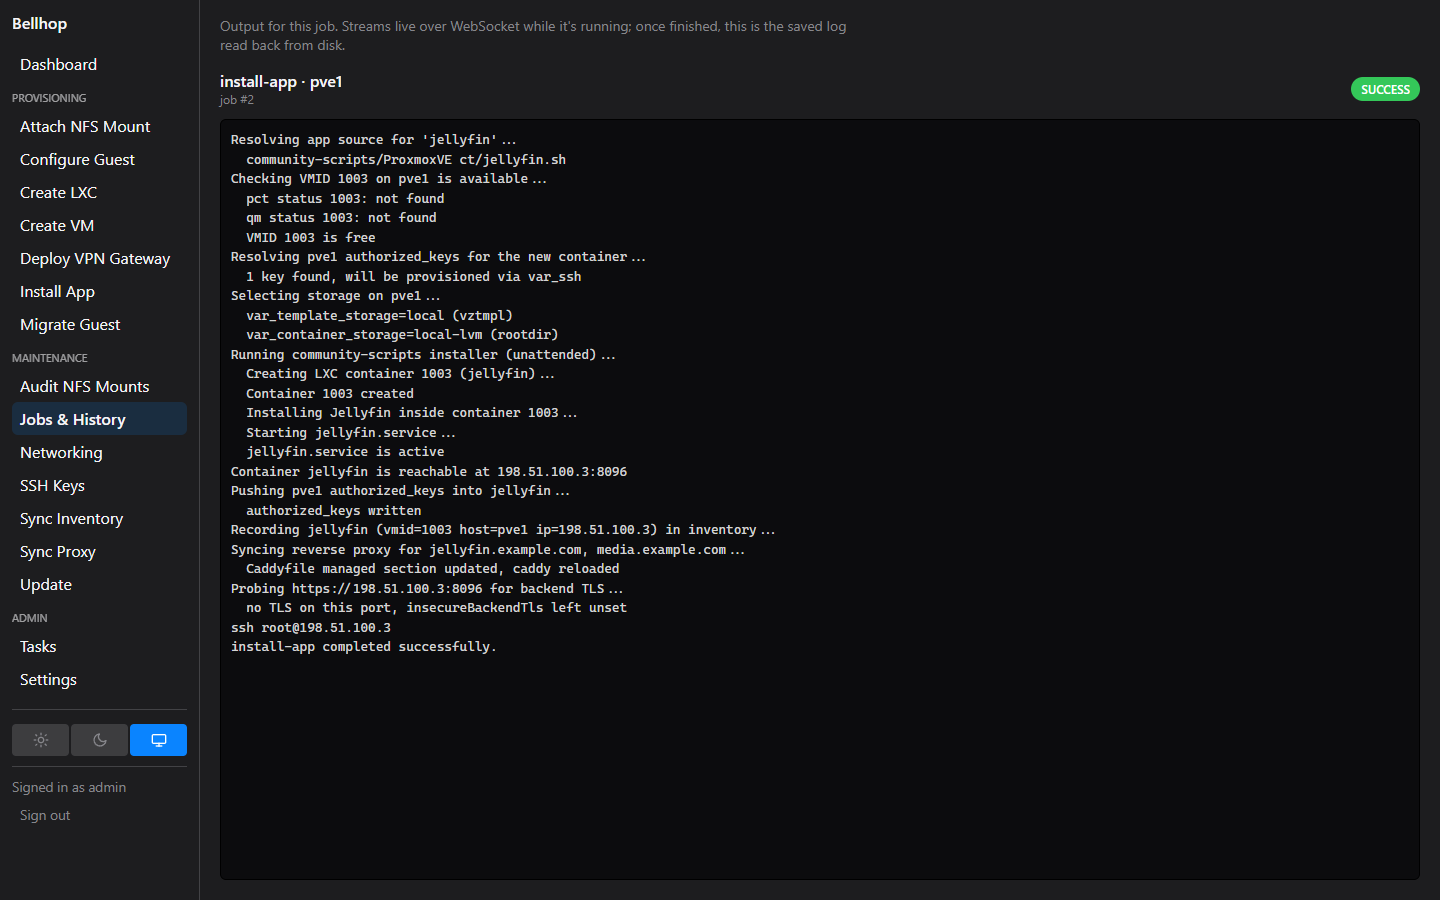
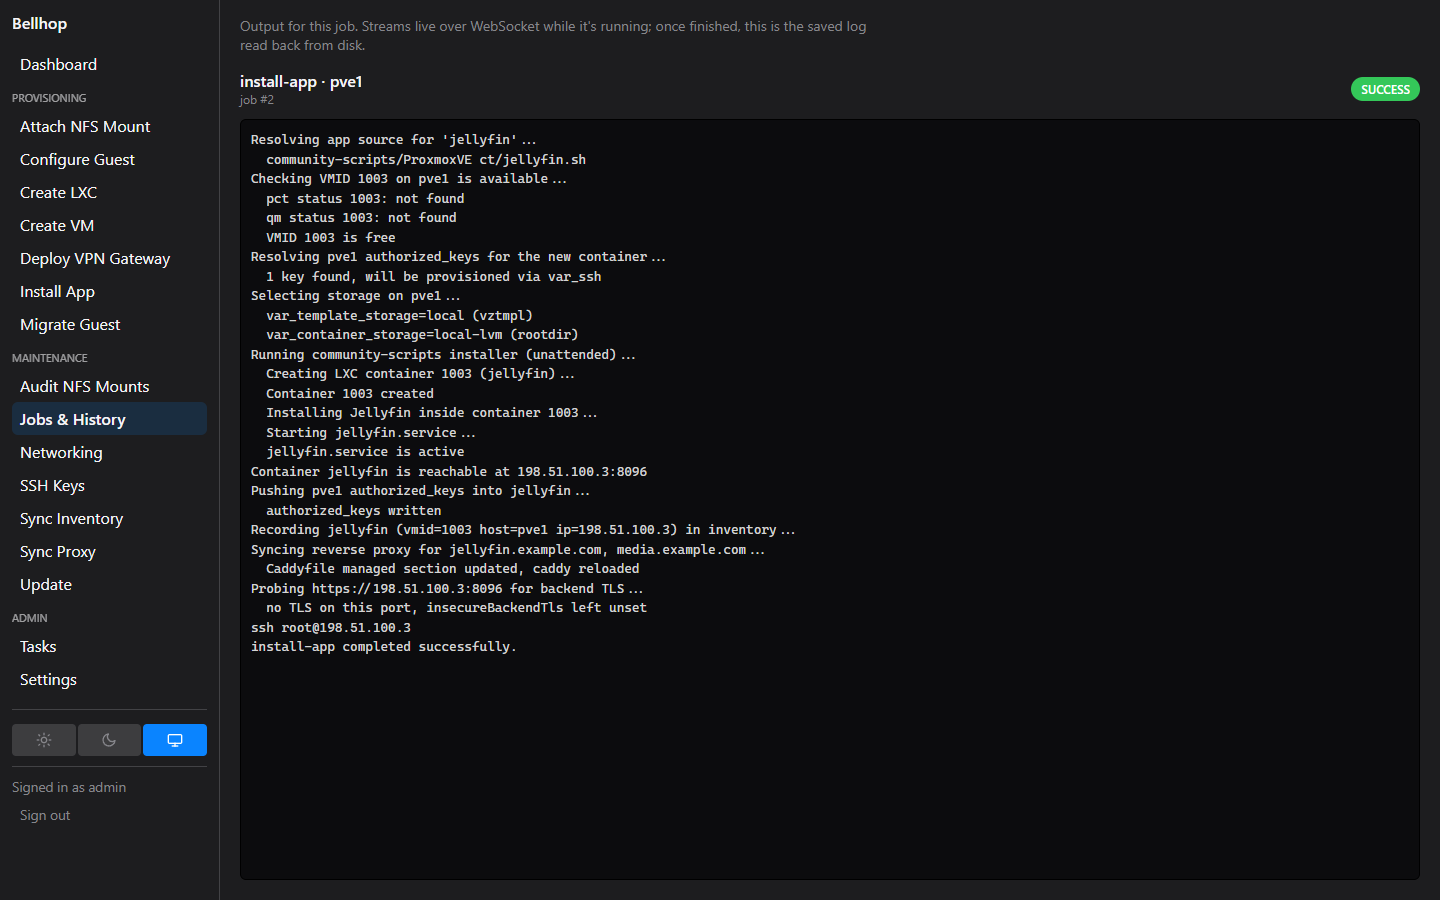
Regenerate docs screenshots for the wider sidebar; mark #74 verification tasks complete
Typecheck clean, 2770/2770 tests pass (2 skipped), web build succeeds.
The phone screenshot and the guest-access modal crop are unchanged.

Claude-Session: https://claude.ai/code/session_01B4st1jNszQVe28BDeVWveJ

Changed region(s): [[0.125, 0.0, 0.5938, 0.7467], [0.0312, 0.7778, 0.1562, 0.84]]

diff --git a/specs/074-widen-sidebar/tasks.md b/specs/074-widen-sidebar/tasks.md
@@ -42,8 +42,8 @@ None.
 
 ## Phase 5: Polish & Cross-Cutting Concerns
 
-- [ ] T006 Regenerate the docs screenshots with `npm run docs:screenshots` into `docs/images/` and check each by eye for the wider sidebar and example-only values (constitution Principle I)
-- [ ] T007 Run `npm run typecheck`, `npm test`, and `npm run web:build`; all pass
+- [x] T006 Regenerate the docs screenshots with `npm run docs:screenshots` into `docs/images/` and check each by eye for the wider sidebar and example-only values (constitution Principle I)
+- [x] T007 Run `npm run typecheck`, `npm test`, and `npm run web:build`; all pass
 
 ## Dependencies & Execution Order
 
